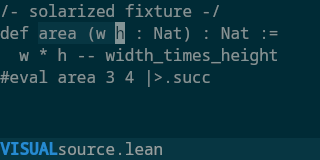
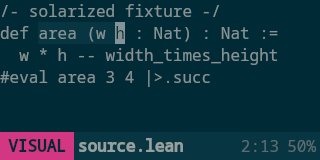
test(lean): draw the theme pictures with the shipped mode line
The pictures' status line is the mode line the editor sends of a
selected window in visual state on source.lean: the VISUAL badge in
its accent, the buffer's name, and line:col and the position flush
right, over a row made taller by the mode line's padding. The
references are drawn again, looked at and measured, and their sizes
and sha256s recorded.

Claude-Session: https://claude.ai/code/session_016j71XtCkr9h3BqB4GoPhkP

Changed region(s): [[0.0, 0.8125, 0.5938, 1.0], [0.75, 0.875, 1.0, 0.9688]]

diff --git a/tests/render/themes/README.md b/tests/render/themes/README.md
@@ -11,9 +11,9 @@ what the editor sends, not a theme written again in Rust.
 
 | File | Size | Bytes | sha256 |
 |---|---|---|---|
[6 lines of base64/hex data omitted]
 
 Each is kept small on purpose: the scene's size, 320 by 160, and at most
 20 KB, which the scenario checks.
@@ -29,8 +29,15 @@ remain below it:
   the `h` of `(w h`, in the theme's selection background;
 - a block cursor on that `h`, in the face of the Vim scheme's visual state
   (`cursor.visual`): the paper on the cursor colour;
-- a status line across the bottom, `VISUAL` in `status.state` and
-  `source.lean` in `status.name`, over `mode-line`.
+- the mode line across the bottom, the shipped one of a selected window
+  in visual state (`FfiTest.themeStatus`, `lean/Editor/ModeLine.lean`):
+  on the left the `VISUAL` badge in `mode-line.state.visual`, the paper on
+  the theme's visual accent, with 8 points of it each side of the text,
+  then `source.lean` in `mode-line.buffer`; on the right, ending at the
+  row's end, the cursor's line:col `2:13` and its position `50%` in
+  `mode-line.secondary`; over `mode-line`, in a row made taller by
+  `mode-line`'s and `echo-area`'s padding of 3 points above and below (the
+  font's 22-pixel line and 6, 28 pixels, the view's bottom row).
 
 It is laid out by the real shaper over one font file, the fixture
 `tests/fonts/NotoSansMono-Regular.subset.ttf`, the default family of a
@@ -39,12 +46,15 @@ not in the set and falls through to it. It is drawn at 16 points, the
 theme's default size, at scale 1, with grayscale antialiasing and hinting,
 at the linear weight.
 
-The Solarized files were looked at, enlarged four times, when they were made
-(2026-11-16), and each of those was seen in both: by the agent that
-implemented the Solarized themes, and not yet by a person.
-`fairy-floss.png` was looked at the same way when it was made
-(2026-11-16), by the agent that implemented Fairy Floss, and not yet by a
-person. Looking at them
+The three files were made again for the segmented mode line and looked
+at, enlarged four times, when they were (2026-11-16), by the agent that
+implemented it, and not yet by a person: in each, the text, the selection
+and the block cursor on the `h` are as before; the badge is a box of its
+accent (Solarized's magenta, Fairy Floss's lavender) 74 pixels across from
+the row's start, its text 8 pixels in; the buffer's name follows in bold;
+line:col and the position end at the row's right edge; and the status row
+is 28 pixels tall, from row 132. Measured too, by decoding the files'
+pixels. Looking at them
 checks that they show text, a selection and a cursor; it does not judge
 how the theme looks, which is left to the owner's day-to-day use.
 
